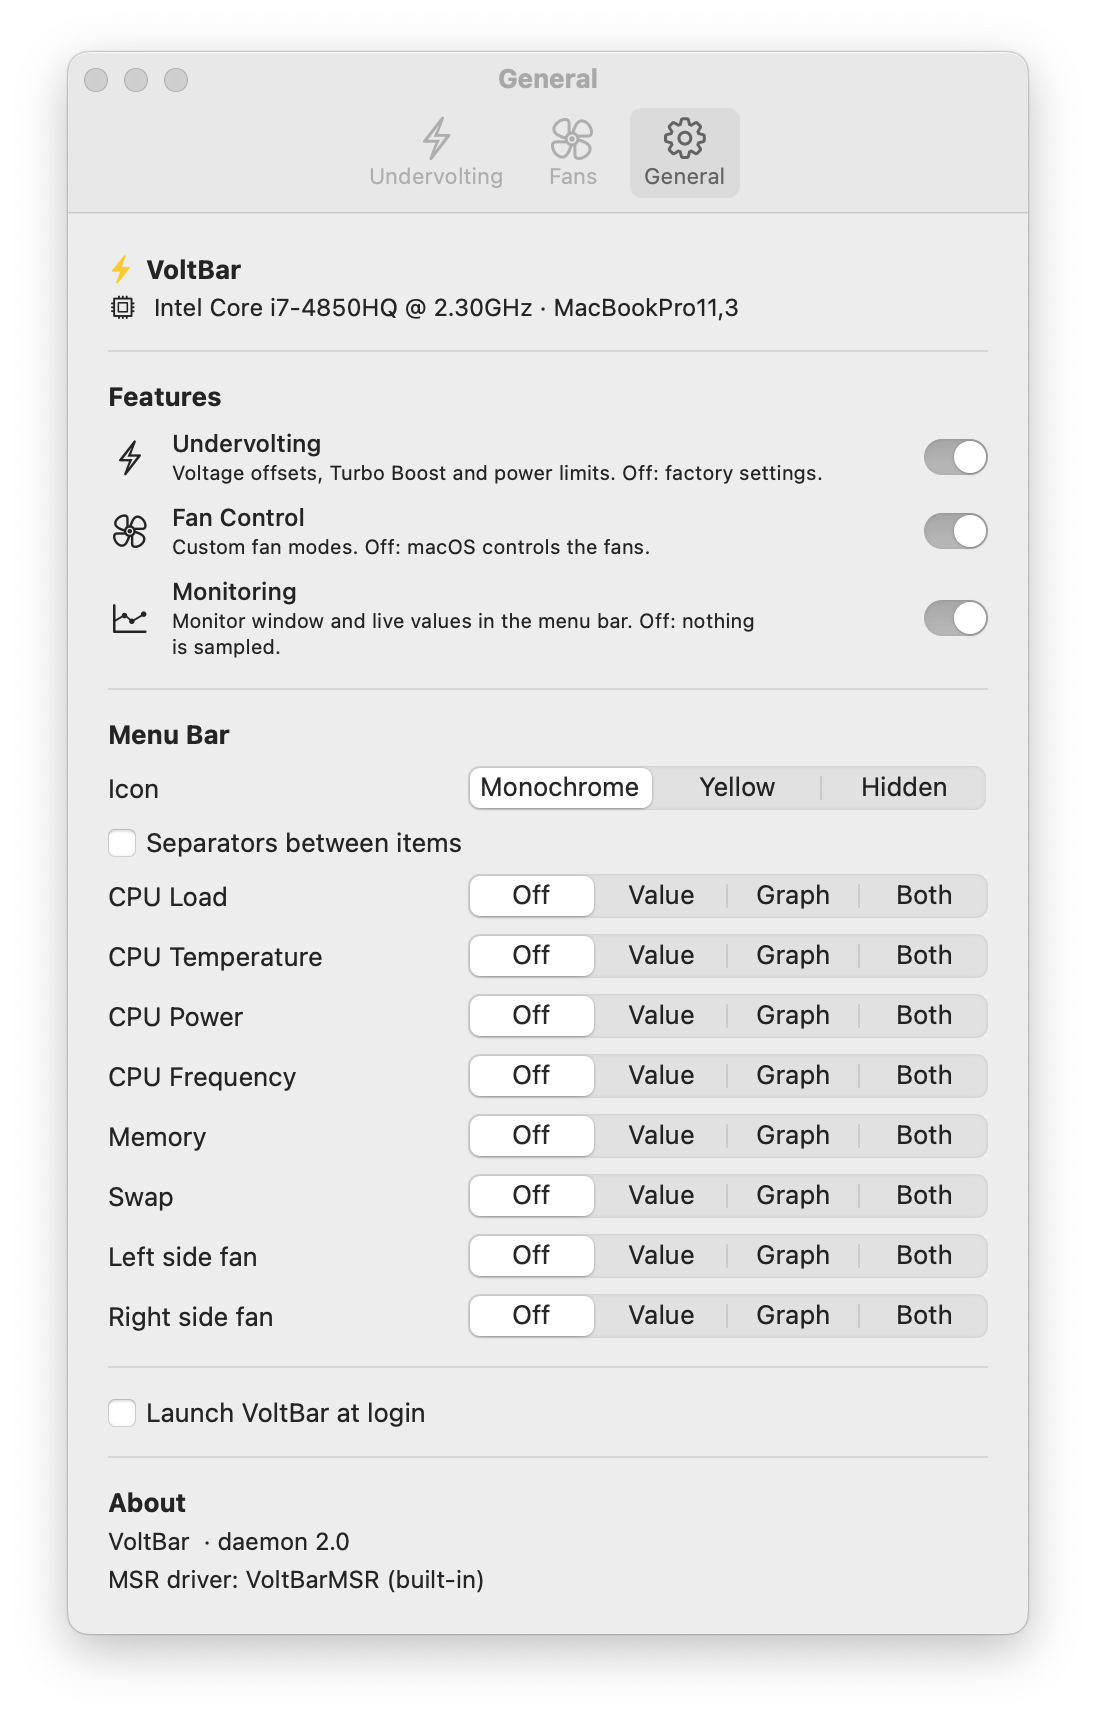
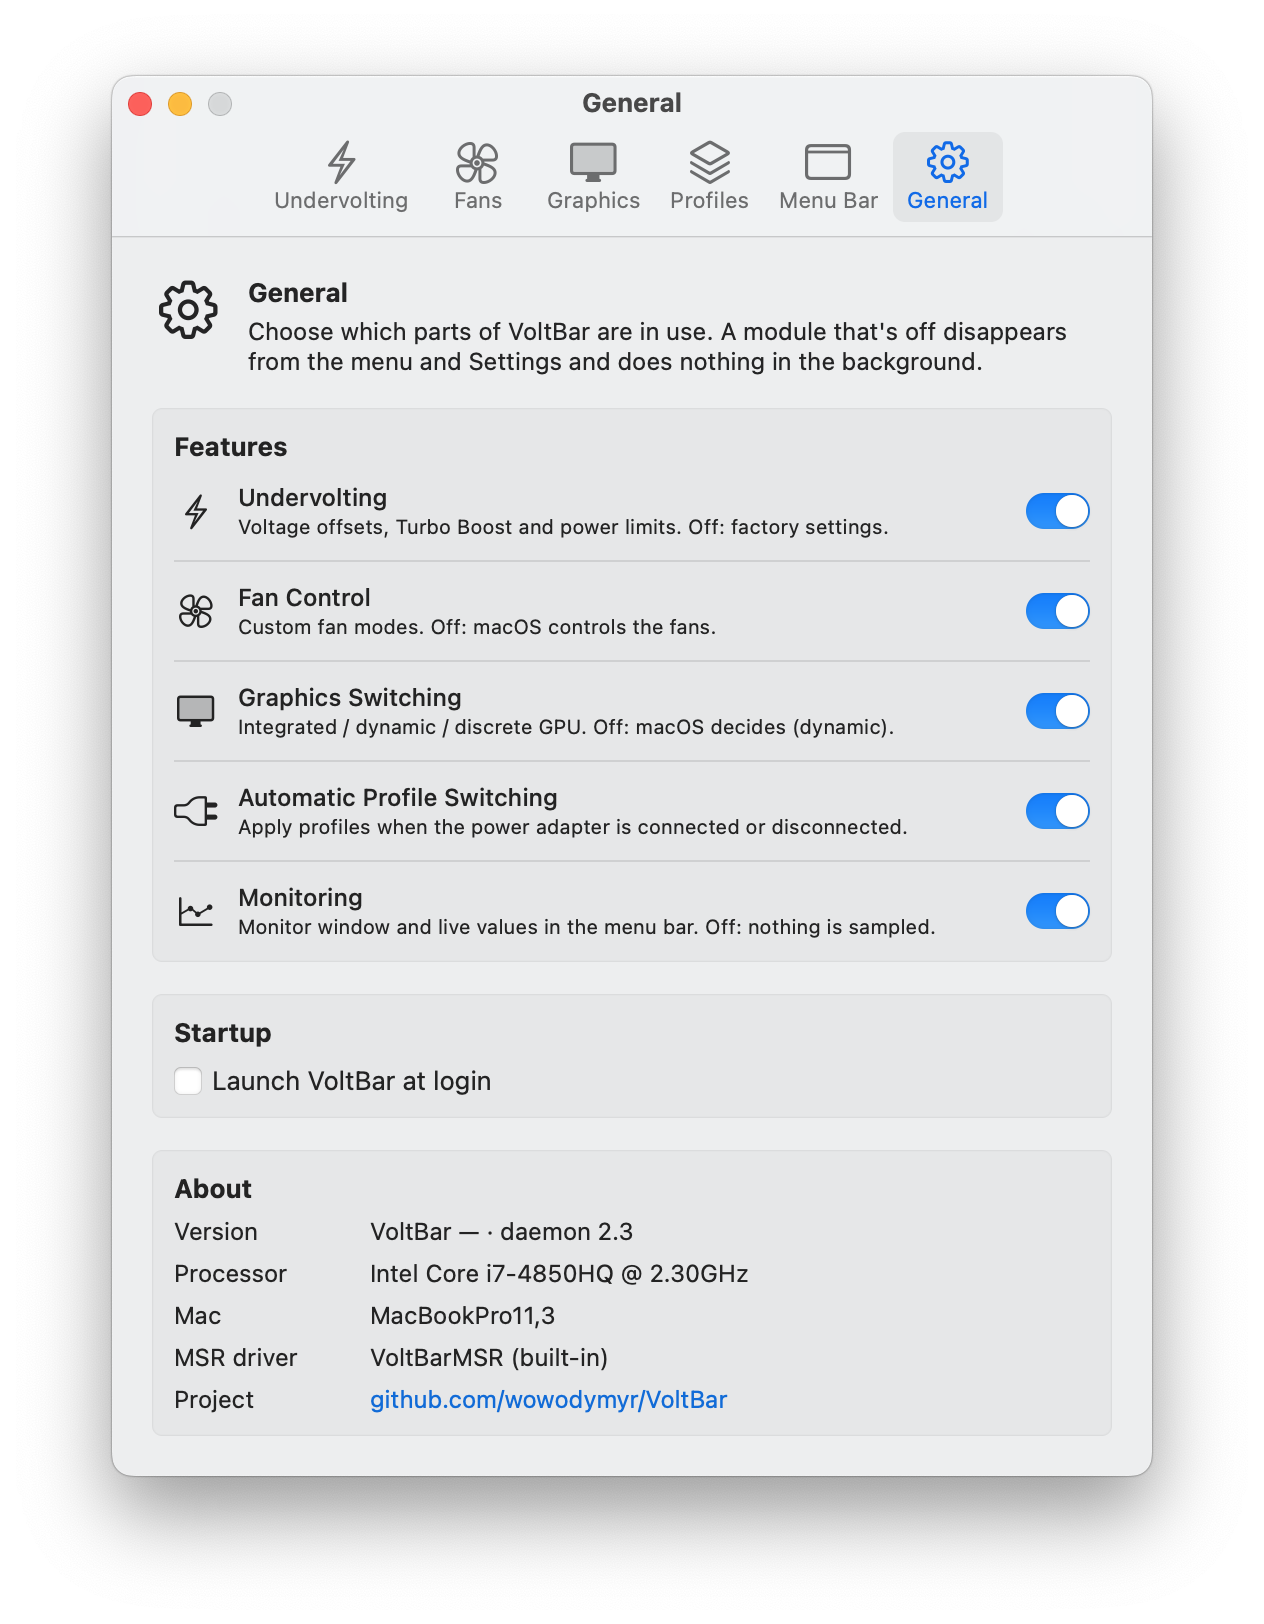
README: fresh, focused screenshots (all settings tabs, menu, Monitor)
Captured from active windows so controls show their accent colours;
adds Graphics, Profiles and Menu Bar tabs; menu bar strip with the new
amber icon.

diff --git a/README.md b/README.md
@@ -14,26 +14,32 @@
 </p>
 
 <p align="center">
-  <img src="docs/screenshots/menubar.png" alt="VoltBar in the menu bar" width="345">
+  <img src="docs/screenshots/menubar.png" alt="VoltBar in the menu bar" width="342">
 </p>
 
 VoltBar does what VoltageShift does — CPU/GPU/cache voltage offsets, Turbo Boost and power limits — but as a native menu bar app with a safety net, and it replaces two more utilities on the way: **fan control** (like Macs Fan Control: fixed speeds, linear rules or curves per fan, driven by any temperature sensor) and **hardware monitoring** (like Intel Power Gadget: live charts of CPU load per thread, frequency, package power, temperature, memory, swap and fan speeds). It ships its own MSR driver (`VoltBarMSR.kext`), so VoltageShift isn't needed.
 
 <p align="center">
-  <img src="docs/screenshots/menu.png" alt="Menu" width="400">
-  <img src="docs/screenshots/monitor.png" alt="Monitor window" width="430">
+  <img src="docs/screenshots/menu.png" alt="Menu" width="380">
+  <img src="docs/screenshots/monitor.png" alt="Monitor window" width="450">
 </p>
 
 <p align="center">
-  <img src="docs/screenshots/settings-fans.png" alt="Fan control" width="600">
+  <img src="docs/screenshots/settings-undervolting.png" alt="Undervolting settings" width="620">
 </p>
 
 <p align="center">
-  <img src="docs/screenshots/settings-undervolting.png" alt="Undervolting settings" width="600">
+  <img src="docs/screenshots/settings-fans.png" alt="Fan control" width="620">
 </p>
 
 <p align="center">
-  <img src="docs/screenshots/settings-general.png" alt="General settings: features and menu bar" width="360">
+  <img src="docs/screenshots/settings-graphics.png" alt="Graphics switching" width="410">
+  <img src="docs/screenshots/settings-profiles.png" alt="Profiles and automatic switching" width="420">
+</p>
+
+<p align="center">
+  <img src="docs/screenshots/settings-menubar.png" alt="Menu bar and menu settings" width="380">
+  <img src="docs/screenshots/settings-general.png" alt="General settings: feature modules" width="380">
 </p>
 
 ### At a glance
